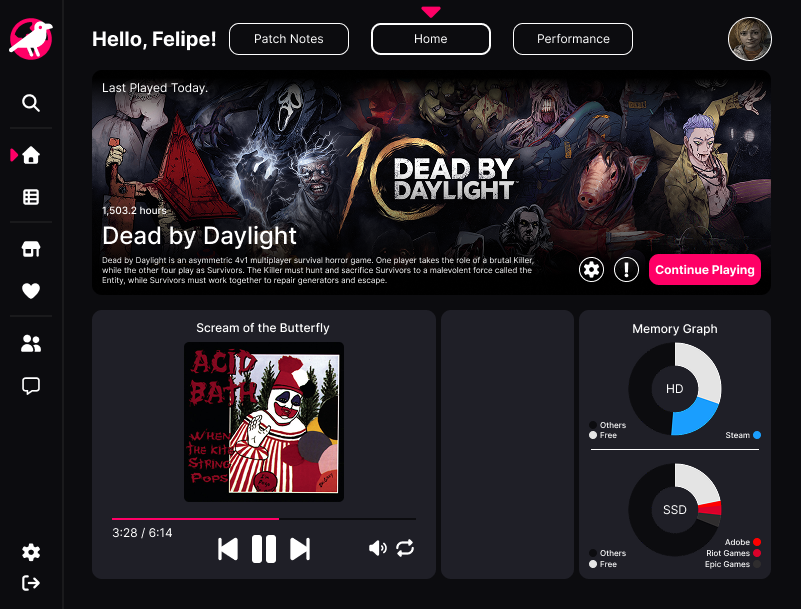
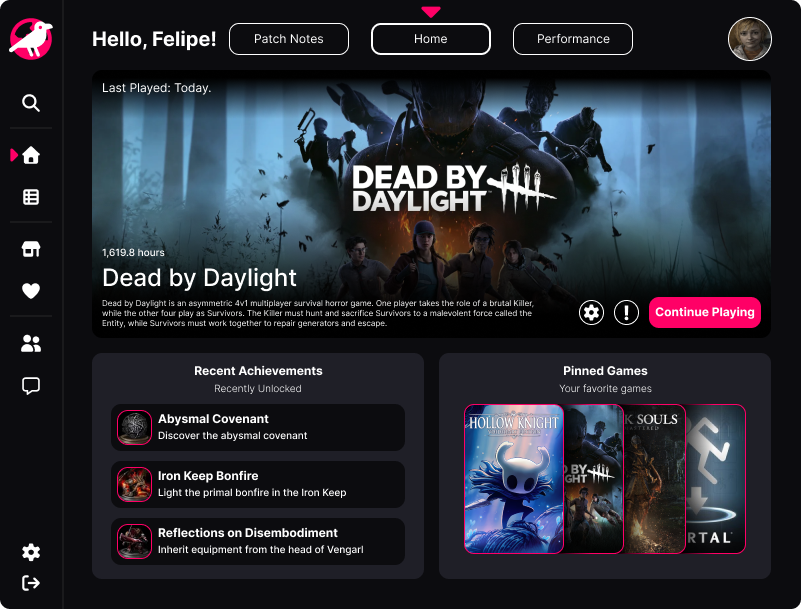
Updated README and synchronized it to the IDE.

diff --git a/README.md b/README.md
@@ -3,9 +3,9 @@
 <a id="readme-top"></a>
 
 <div align=center>
-  <img width="160" height="160" alt="079" src="README Files/Slowpoke.png" />
+  <img width="207" height="200" alt="gato guerra" src="https://github.com/user-attachments/assets/7fa965b5-7c95-4fcb-951b-56679be041f8" />
   <br>
-  <h1>Slowpoke Launcher</h1>
+  <h1>Game Launcher</h1>
   <br>
   <img src="https://img.shields.io/badge/.NET-512BD4?style=for-the-badge&logo=dotnet&logoColor=white"> <img src="https://img.shields.io/badge/C%23-239120?style=for-the-badge&logo=csharp&logoColor=white"> <img src="https://img.shields.io/badge/Steam-000000?style=for-the-badge&logo=steam&logoColor=white">
 </div>
@@ -42,41 +42,55 @@
   </ol>
 </details>
 
+<!-- HIATUS -->
+
+# HIATUS
+
+We are pausing development for a while. Lately, building this launcher has hit a few snags due to my own ongoing learning curve with C# and XAML, and I need to step back for a moment to catch up and build my confidence to guarantee a well-developed application.
+
+We don't expect this hiatus to last indefinitely, but upcoming features will be delayed by at least a quarter. Thank you for your patience and support.
+
+We'll post another update when things kick back into gear.
+<br>
+<br>
+<br>
+
 <!-- ABOUT THE PROJECT -->
 
 ## About The Project
 
-Slowpoke is an open-source, customizable launcher for games and everything around them.
+An open-source, customizable launcher that brings games, applications, friends, news, hardware information, and other gaming-related content together in one place.
 
-What started as a launcher I made for myself is becoming a project that anyone can customize. The goal is to bring games, applications, friends, news, hardware, and other gaming-related content together in one place.
-
-Because Slowpoke is open source, its interface and functionality can be changed and expanded to fit different needs.
+Its open architecture allows the interface and functionality to be freely customized and extended to fit different needs.
 
 <!-- CURRENT STATE -->
 
 ### Current State
 
-Slowpoke is currently in the early prototyping stage. The main focus is on building and testing the launcher's core interface and navigation before moving on to more advanced functionality and customization.
+The project is currently in early pre-release development, with the focus on building and validating the launcher's core interface and navigation.
+
+The current prototype includes the sidebar, header layout, animated selection indicators and a profile popup for changing the user's nickname and profile picture.
 
 <!-- GIF FROM NOW -->
 
-<img width="397" height="304.5" alt="gif" src="README Files/Launcher.gif"/><br>
+<img width="400.5" height="304.5" alt="gif" src="README Files/Launcher.gif"/><br>
 *Gif of the current state.*
+<br>
+<br>
+<br>
 
-The current protorype includes the sidebar, Home page layout, animated selection indicators, and a profile popup to change the user's nickname.
-<br>
-<br>
-<br>
-<img width="400.5" height="304.5" alt="Home Prototype" src="README Files/Home.png"/><br>
-*Early home page prototype. Some elements shown are planned and not yet implemented. The design and features are subject to change.*
+<!-- HOME PAGE PROTOTYPE -->
+
+<img width="400.5" height="304.5" alt="Home" src="README Files/Home.png" /><br>
+*Home page design prototype. Some elements shown are planned and not yet implemented. The design and features are subject to change.*
 
 <!-- CORRECT USAGE -->
 
 ### How To Use It
 
-The project is currently on its pre-release alpha and being tested to validate its core functionality as a Game Launcher.
+The project is currently in pre-release alpha and is not yet available as a public download.
 
-A downloadable version is not available until the official release (TBA). For now, development is focused on validating the underlying workflow and interface before preparing a public release.
+Development is focused on validating the core interface and workflow before an official release. <strong>Release date: TBA<strong>.
 
 <p align="right">(<a href="#readme-top">Back To Top</a>)</p>
 
@@ -89,17 +103,49 @@ A downloadable version is not available until the official release (TBA). For no
 ### Current Features
 
 Sidebar:
-- Stylized and animated buttons.
-- Animated Selection Indicator.
-- Adjustable vertical bar size.
-- Exit button.
+- Stylized and animated buttons
+- Animated selection indicator
+- Adjustable width
+- Exit button
 
-Home Section:
-- Page title.
-- Stylized header buttons.
-- Profile Popup.
-- Option to change the username.
-- New font added.
+Header:
+- Page title
+- Profile Popup
+- Profile picture customization
+- Local profile data persistence
+
+<p align="right">(<a href="#readme-top">Back To Top</a>)</p>
+
+<!-- ROADMAP -->
+
+## Roadmap
+
+Development is tracked through the [Roadmap Website](https://launcher-roadmap.vercel.app/), which contains current work, shipped features, and planned ideas.
+
+### General
+- [ ] Give a name to the project
+- [ ] Change logo
+- [ ] Change main font
+  - [x] Add the font Montserrat
+  - [ ] Make the new font default in the entire application
+- [ ] Move each attribute to its own file
+
+### Sidebar
+- [x] Home
+- [ ] Library
+- [ ] Wishlist
+- [ ] Friends
+- [ ] Configurations
+- [x] Exit
+- [x] Selection indicator
+
+### Pages
+- [x] Change Sidebar to `UserControl`
+- [ ] Change Home to `UserControl`
+- [ ] Implement Library
+- [ ] Implement Patch Notes
+- [ ] Implement Performance
+- [ ] Implement Configurations
 
 <p align="right">(<a href="#readme-top">Back To Top</a>)</p>
 
@@ -110,6 +156,24 @@ Home Section:
 <!-- Version -->
 
 ### Latest Update
+
+<h3>Pre-Release v0.4.0-alpha.5.0</h3>
+
+- Refactored the Sidebar into its own `UserControl`.
+- Added persistent profile data.
+- Added profile picture selection and local storage.
+- Added nickname persistence and display.
+- Improved the page title and profile integration.
+- Added width limits to the Sidebar.
+- Cleaned up unused files and code.
+- Added XML labels throughout the interface to improve code readability.
+
+For the complete development history, see the commit [9e8864b](https://github.com/FelipeSelhorst/Game-Launcher/commit/9e8864b88e98f0bb3b02fec66ff365ea1f193238).
+
+<p align="right">(<a href="#readme-top">Back To Top</a>)</p>
+<br>
+
+### Previous Update
 
 <h3>Pre-Release v0.3.0-alpha.4.0</h3>
 
@@ -133,107 +197,34 @@ Profile Popup:
 For more detailed information, see the commit [e548af6](https://github.com/FelipeSelhorst/Game-Launcher/commit/e548af646037fe3adacc755f5f81235d3d36efed)
 
 <p align="right">(<a href="#readme-top">Back To Top</a>)</p>
-<br>
-
-### Previous Update
-
-<h3>Pre-Release v0.2.1-alpha.3.0</h3>
-
-General:
-- Added the font "Montserrat" to the project.
-
-Home Section:
-- Changed the page title and buttons font.
-- Corrected the column widths.
-- Corrected the issue where the profile button was not displaying the image correctly.
-
-Profile Popup:
-- Corrected the issue where the popup was not displaying anything.
-- Increased the size.
-- Added columns and rows.
-- Added the profile picture to the left.
-- Added a `<TextBlock>` to label the "Name" field.
-- Added an input to change the username.
-
-For more detailed information, read the commit [bb76571](https://github.com/FelipeSelhorst/Game-Launcher/commit/bb76571b9d385b8a011cbb6eb45701c6bab67125)
-
-<p align="right">(<a href="#readme-top">Back To Top</a>)</p>
 
 <!-- IMPROVED -->
 
 ### Improved
 
 General:
-- Reduced the application's folder size.
+- Improved performance by separating the Sidebar from the MainWindow.
 
 Home Section:
 - The profile picture is rounded and features visual indicators showing that it can and has been selected.
+- Now the displayed profile picture is the one selected by the user.
+- The page title now displays the nickname alongside its content.
 
 Popup:
-- Added the missing "Save Changes" button.
-- Added a new row exclusively for the new button.
-- Increased sizes and centered the elements.
-
-<p align="right">(<a href="#readme-top">Back To Top</a>)</p>
-
-<!-- ROADMAP -->
-
-## Roadmap
-
-### General
-- [x] Change Name
-- [ ] Change Logo
-- [ ] Change Main Font
-  - [x] Add the New Font
-  - [ ] Make the New Font Default for the Entire Project
-
-### Sidebar
-- [x] Home Button
-- [ ] Library Button
-- [ ] Wishlist Pop-Up
-  - [ ] Change to ToggleButton
-- [ ] Friends Pop-Up
-  - [ ] Change to ToggleButton
-- [ ] Configs Button
-  - [x] Turn to RadioButton
-- [x] Exit Button
-- [x] Selection Indicator
-
-### Home Section
-- [ ] Header
-  - [x] Page title
-  - [x] Main Buttons
-  - [ ] Selection Indicator
-  - [x] Round the Profile Picture and add a border
-  - [ ] Profile Pop-Up
-    - [x] Save Button
-    - [ ] Option to Change Picture
-    - [x] Option to Change Name
-
-### Pages
-- [ ] Change Home code for its actual file.
-- [ ] Implement Library
-- [ ] Implement Patch Notes
-- [ ] Implement Performance
-- [ ] Implement Configurations
-
-Please consider taking a look at the [Roadmap Website](https://felipeselhorst.github.io/Launcher-Roadmap) to see what we are currently working on, every shipped feature and planned ideas.
+- Finished the `SaveProfile` function.
+- Added an option to change the profile picture and save it locally.
+- Now the nickname is saved and displayed whenever the application is open.
 
 <p align="right">(<a href="#readme-top">Back To Top</a>)</p>
 
 <!-- KNOWN ISSUES -->
 
 ## Known Issues
-
-**Sorted by Expected Fix**
-
-- The `SaveProfile` property has not been implemented yet.
-- The name-changing feature is not functional.
 - The application logo is still a placeholder.
 - Page navigation is not fully implemented.
-- Four sidebar buttons are not functional.
-- The added font, "Montserrat", is not set as the application default.
-- The code needs to be optimized and cleaned up.
+- Several sidebar buttons are not yet functional.
+- Montserrat is not set yet as the application-wide default font.
+- The codebase still needs further optimization and cleanup.
 
 Issues that are easier or quicker to address are more likely to be fixed in the next update. More complex issues may be addressed in future larger updates.
 
